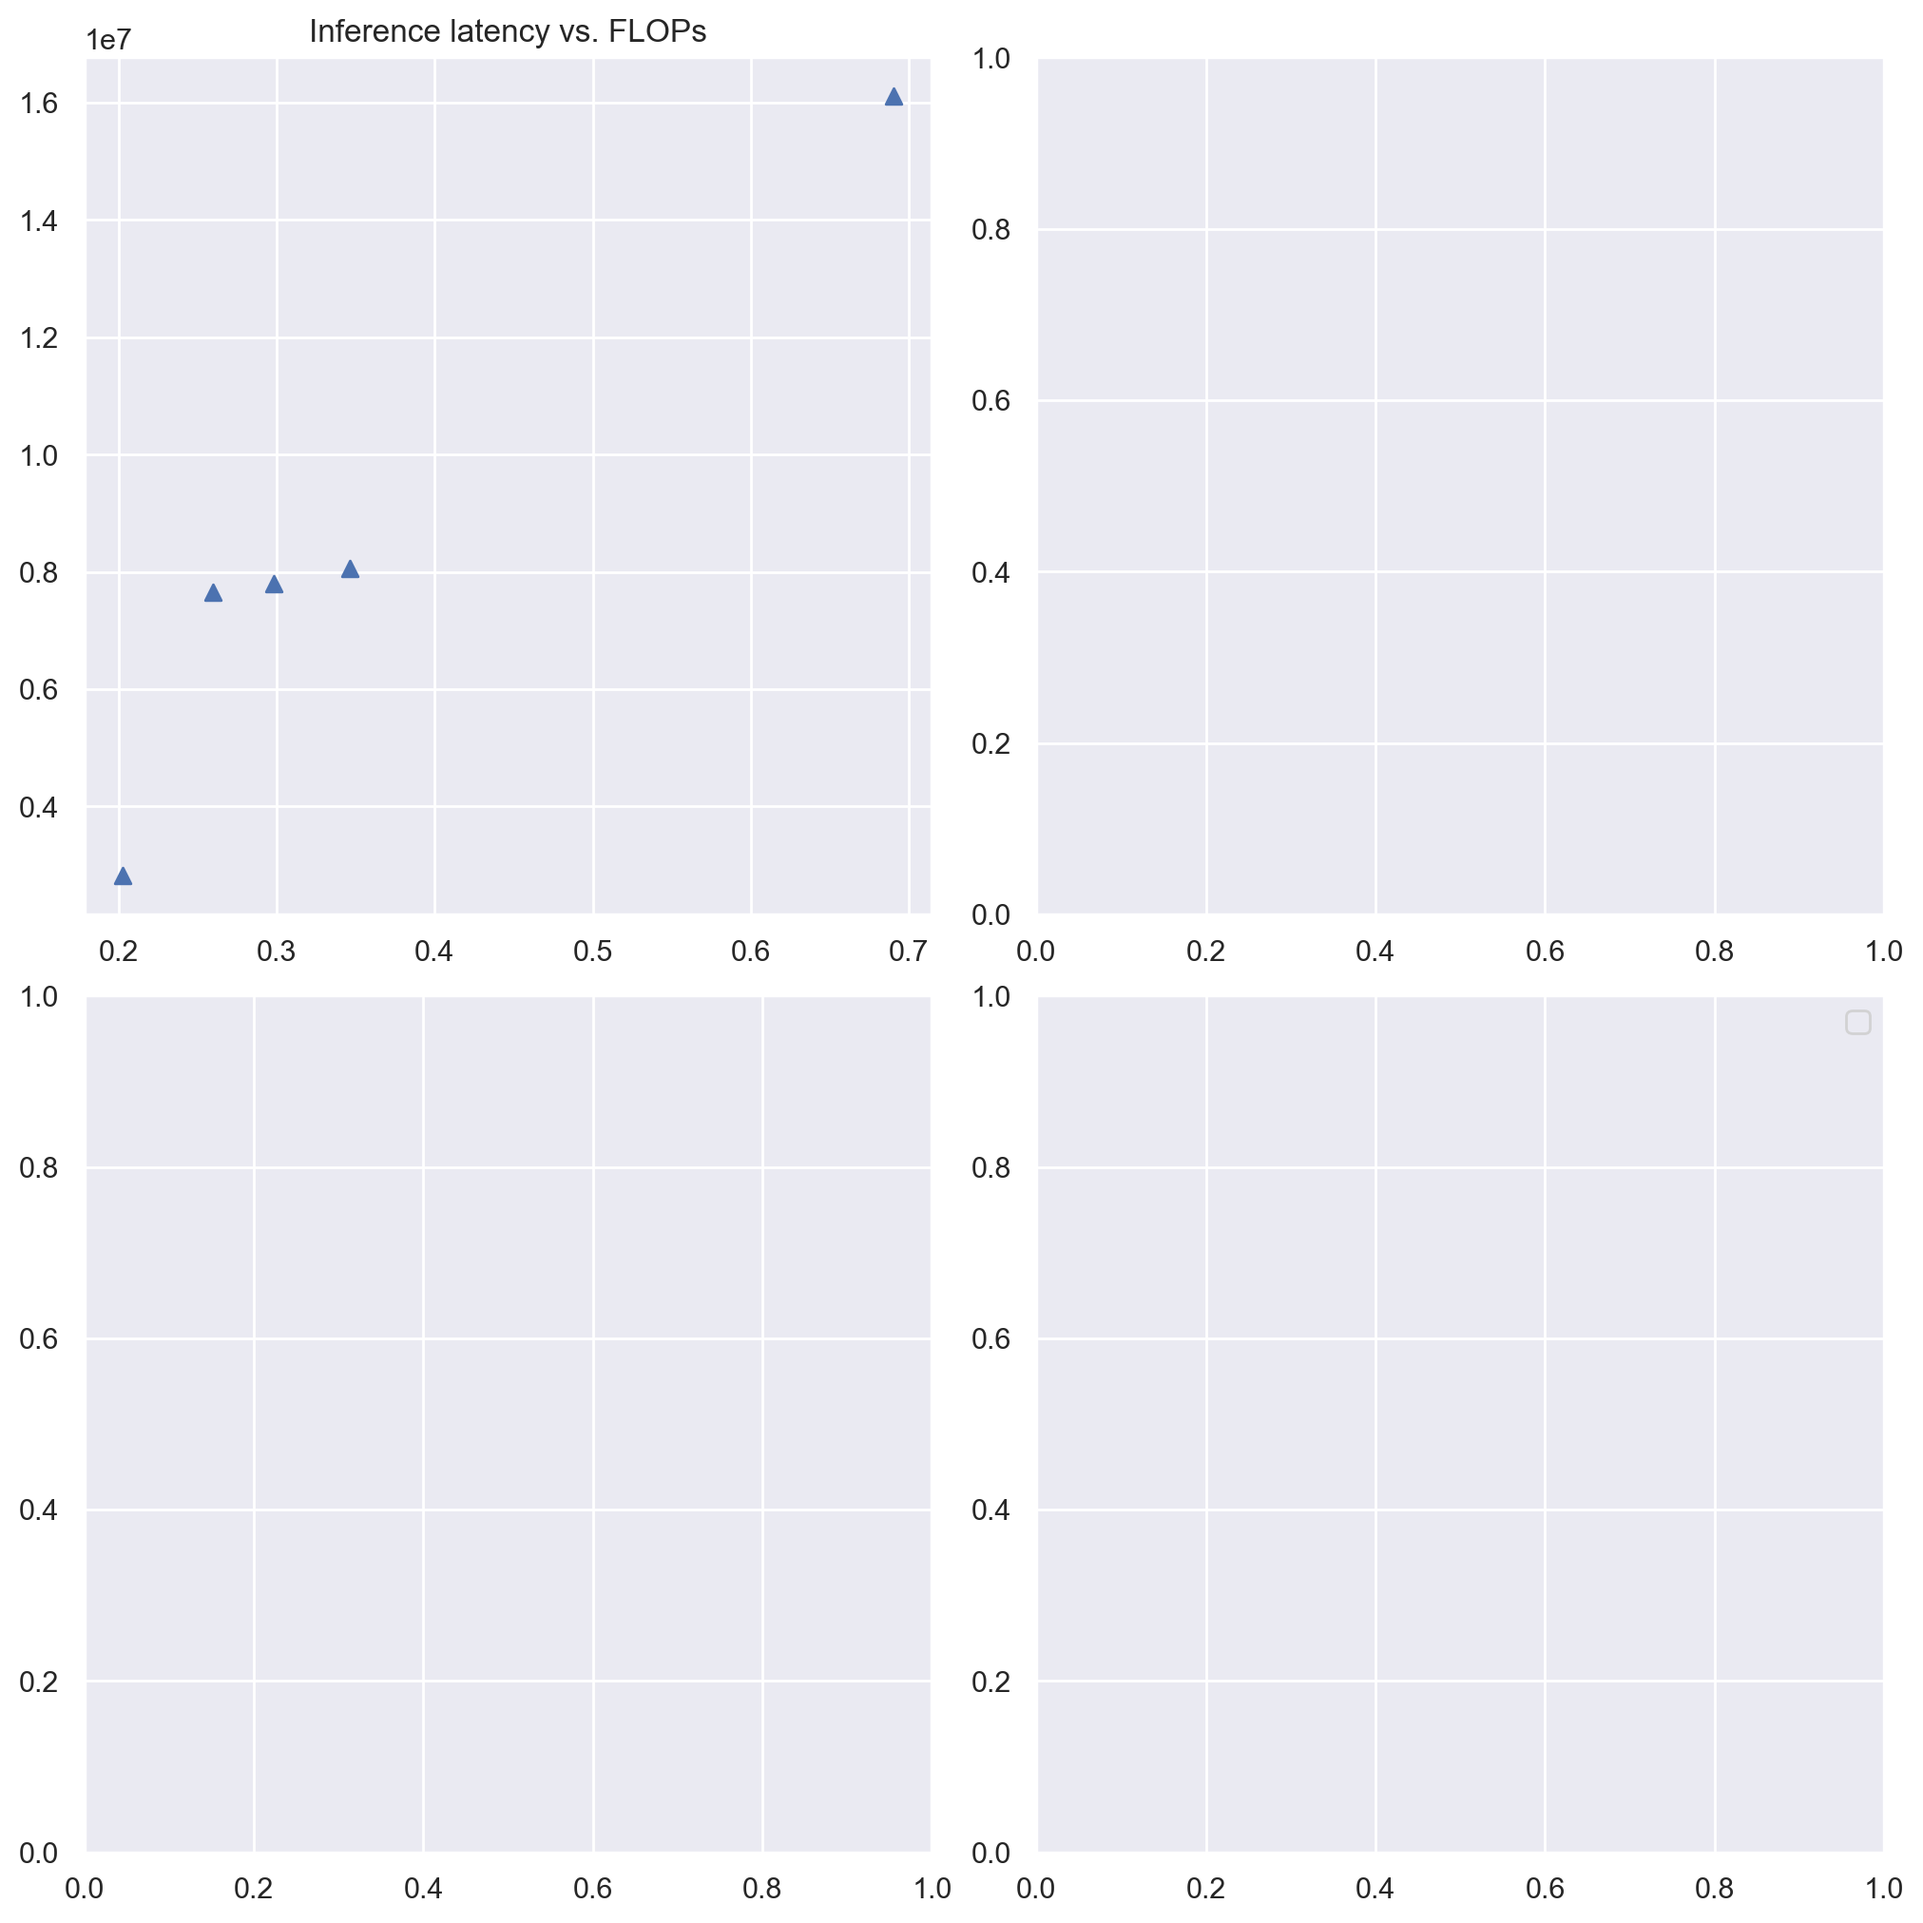
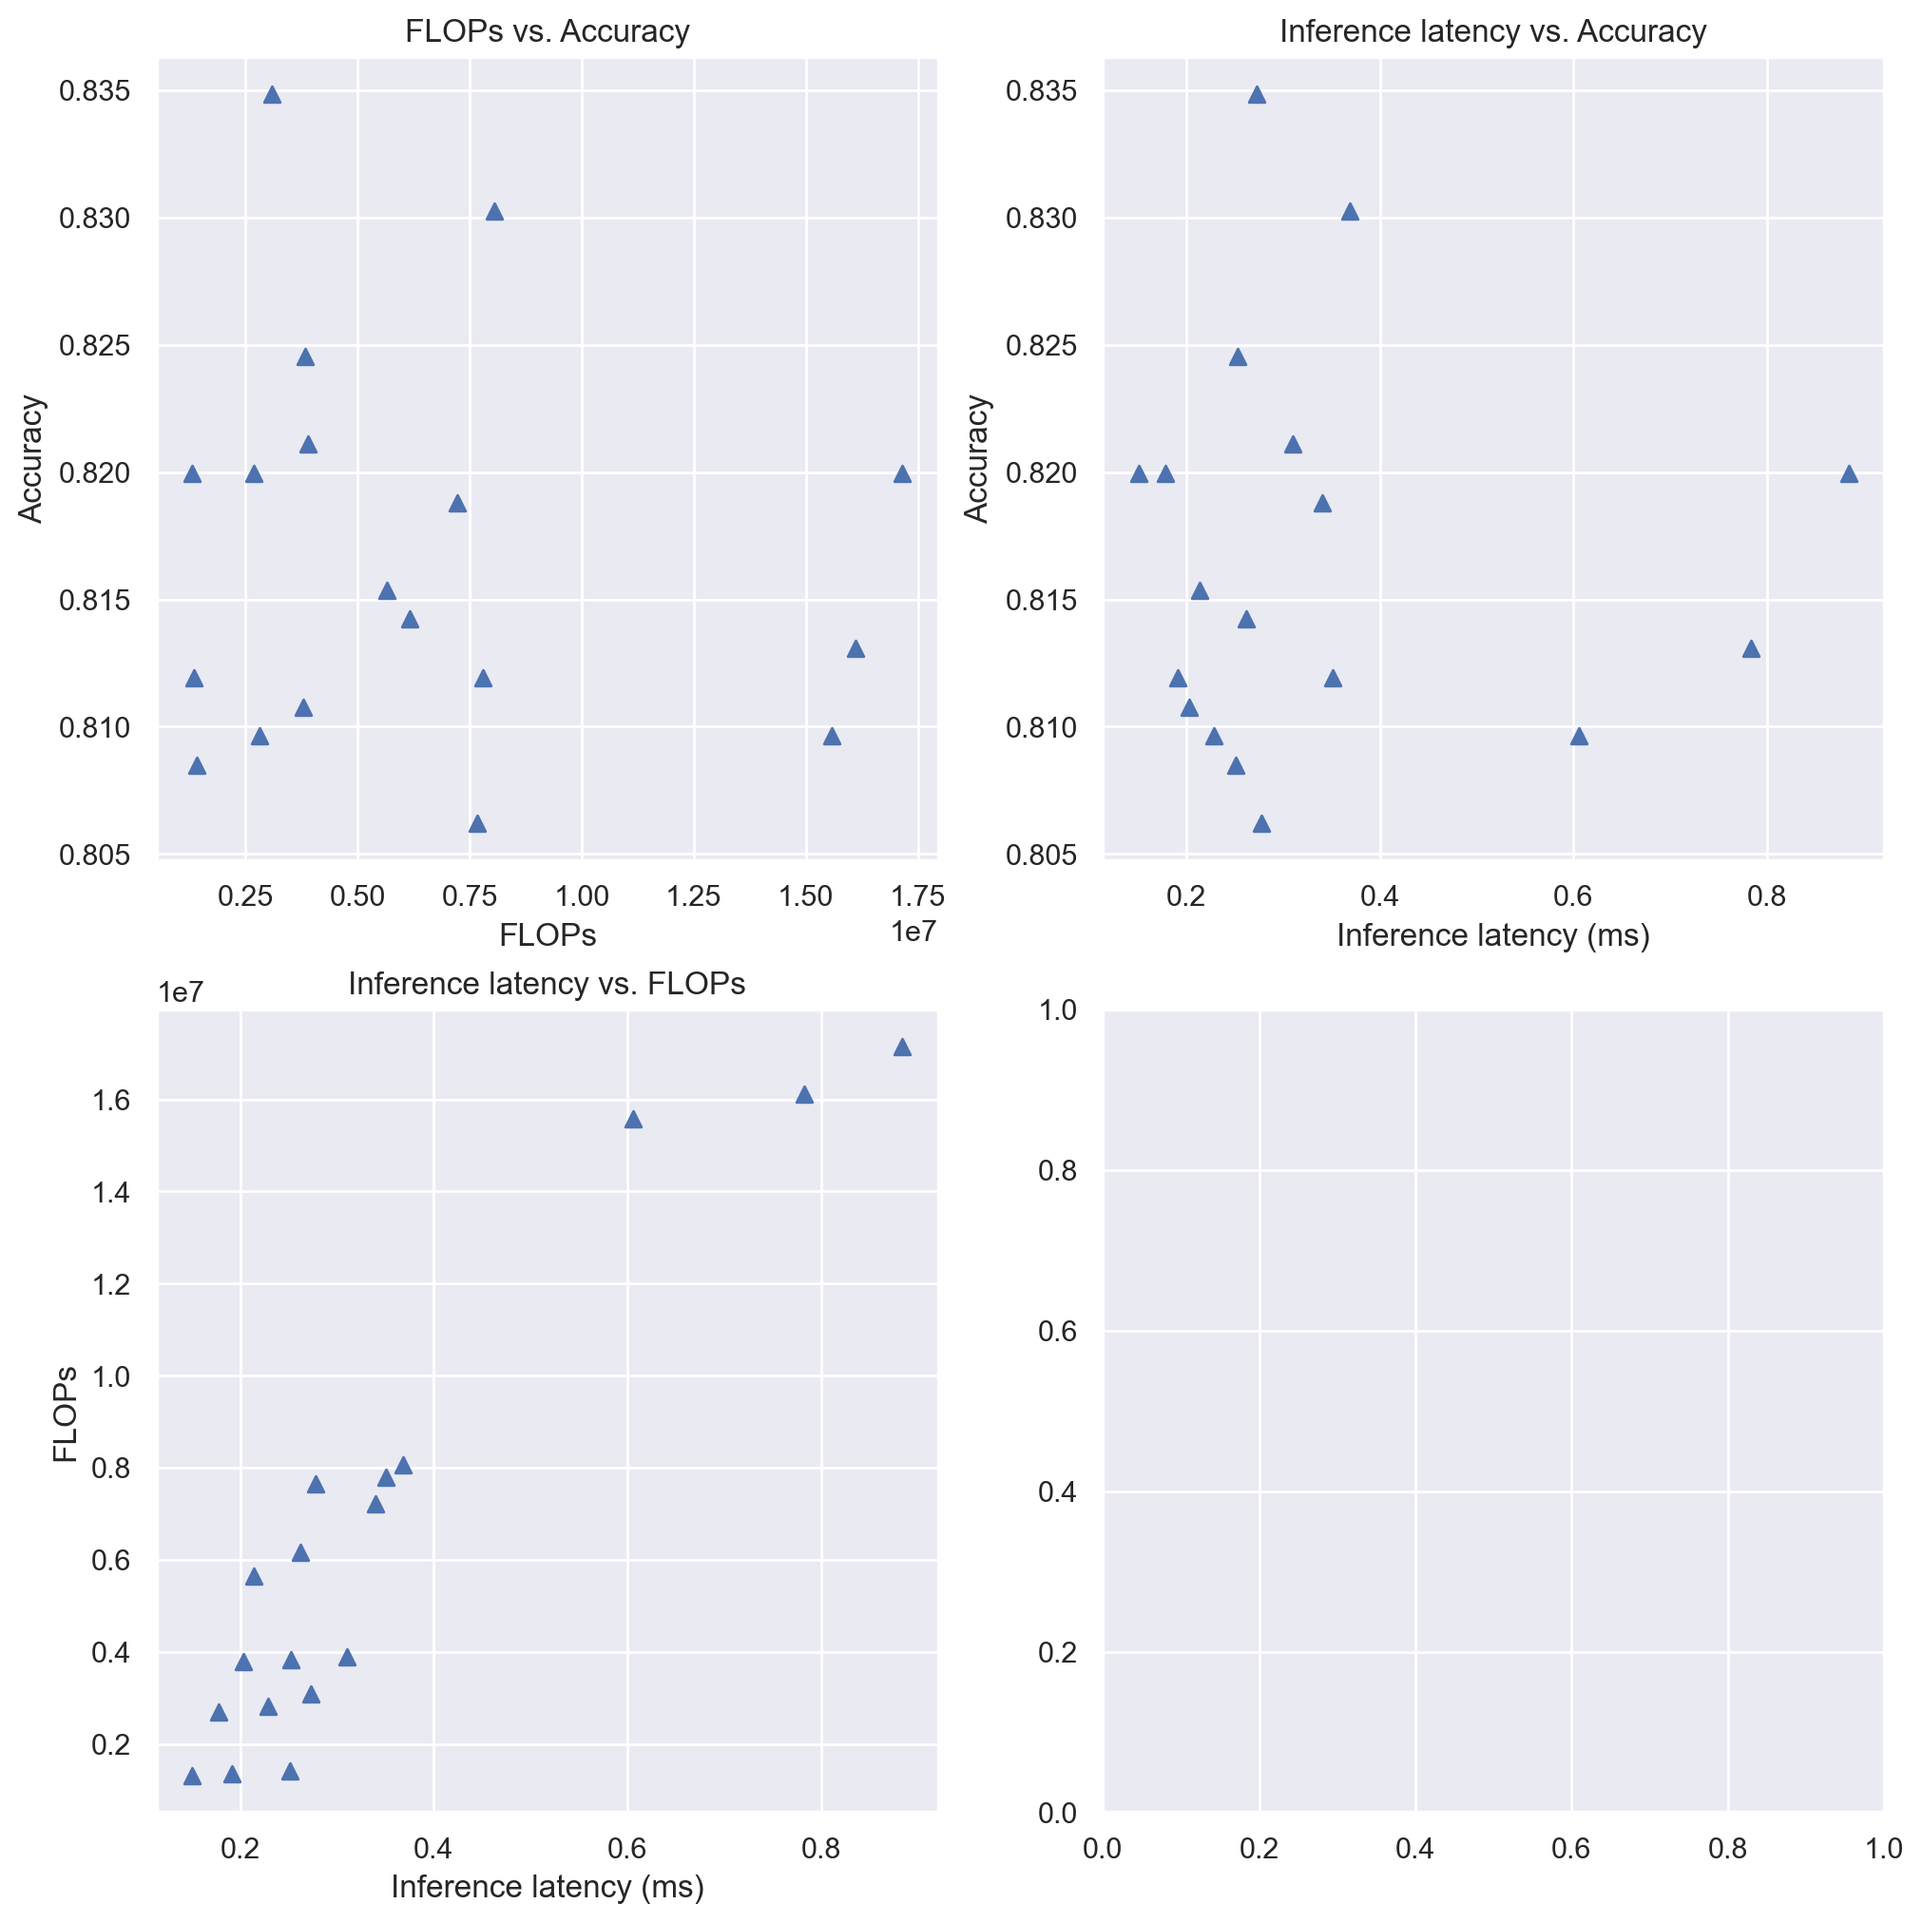
Plots

diff --git a/labs/lab1/plot_results.py b/labs/lab1/plot_results.py
@@ -1,3 +1,5 @@
+import json
+import os
 from typing import List, Dict
 import numpy as np
 from matplotlib import pyplot as plt
@@ -7,50 +9,67 @@ mpl.rcParams['figure.dpi'] = 200
 mpl.rc("savefig", dpi=200)
 import seaborn as sns
 
-sns.set_theme()
-# sns.set_style('whitegrid')
-
-infer_latency = {
-    'Base': [0.30280367, 0.29592259, 0.29816307, 0.29357718, 0.30024839],
-    'Deep': [0.34394025, 0.3621539, 0.33378154, 0.33759679, 0.35382546],
-    'Shallow': [0.25778463, 0.26768555, 0.26778899, 0.25114633, 0.25300241],
-    'Wide': [0.68692936, 0.70068452, 0.66972408, 0.69724862, 0.69621147],
-    'Smaller input': [0.20641181, 0.18807466, 0.20986284, 0.21330206, 0.19609989],
-}
-
-accuracy = {
-    'Base': 0.82,
-    'Deep': 0.83,
-    'Shallow': 0.83,
-    'Wide': 0.83,
-    'Smaller input': 0.82,
-}
-
-flops = {
-    'Base': 7791873,
-    'Deep': 8054529,
-    'Shallow': 7660545,
-    'Wide': 16108033,
-    'Smaller input': 2823425,
-}
+sns.set_theme()  # sns.set_style('whitegrid')
 
 
-def latency_vs_flops(ax, name: str):
+def latency_vs_flops(ax, data: List[dict]):
     latency = []
-    ops = []
-    for model, values in infer_latency.items():
-        latency.append(np.mean(values))
-        ops.append(flops[model])
+    flops = []
+    for d in data:
+        latency.append(np.mean(d['inference_time']))
+        flops.append(d['FLOPs'])
 
     # ax.plot(latency, ops, marker='^')
-    ax.scatter(latency, ops, marker='^')
-    ax.set_title(name)
+    ax.scatter(latency, flops, marker='^')
+    ax.set_xlabel('Inference latency (ms)')
+    ax.set_ylabel('FLOPs')
+    ax.set_title('Inference latency vs. FLOPs')
+
+
+def flops_vs_acc(ax, data: List[dict]):
+    acc = []
+    flops = []
+    for d in data:
+        acc.append(d['acc'])
+        flops.append(d['FLOPs'])
+
+    ax.scatter(flops, acc, marker='^')
+    ax.set_xlabel('FLOPs')
+    ax.set_ylabel('Accuracy')
+    ax.set_title('FLOPs vs. Accuracy')
+
+
+def latency_vs_acc(ax, data: List[dict]):
+    latency = []
+    acc = []
+    for d in data:
+        latency.append(np.mean(d['inference_time']))
+        acc.append(d['acc'])
+
+    # ax.plot(latency, ops, marker='^')
+    ax.scatter(latency, acc, marker='^')
+    ax.set_xlabel('Inference latency (ms)')
+    ax.set_ylabel('Accuracy')
+    ax.set_title('Inference latency vs. Accuracy')
+
+
+def main():
+    data = []
+    for f in os.listdir('results'):
+        if not f.endswith('.json'):
+            continue
+        with open(os.path.join('results', f)) as file:
+            data.append(json.load(file))
+
+    fig, axes = plt.subplots(2, 2, figsize=(10, 10), constrained_layout=True)
+    axes = axes.flatten()
+    flops_vs_acc(axes[0], data)
+    latency_vs_acc(axes[1], data)
+    latency_vs_flops(axes[2], data)
+
+    # plt.legend()
+    plt.savefig(f'viz.png', bbox_inches='tight')
 
 
 if __name__ == '__main__':
-    fig, axes = plt.subplots(2, 2, figsize=(10, 10), constrained_layout=True)
-    axes = axes.flatten()
-    latency_vs_flops(axes[0], 'Inference latency vs. FLOPs')
-
-    plt.legend()
-    plt.savefig(f'viz.png', bbox_inches='tight')
+    main()
